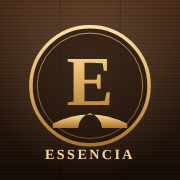
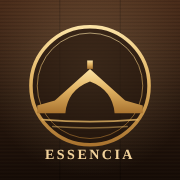
Icono sin la E: solo el puente dorado
Claude-Session: https://claude.ai/code/session_01XJRqYR3XyJSAmx2psQQsTk

Changed region(s): [[0.1944, 0.3056, 0.8056, 0.7222], [0.4722, 0.6111, 0.5278, 0.6389]]

diff --git a/sw.js b/sw.js
@@ -1,5 +1,5 @@
 // Esencia: guarda la app para que abra rápido. Siempre intenta la versión nueva primero.
-const CACHE = "esencia-v35";
+const CACHE = "esencia-v36";
 const BASE = ["./", "./camareros/", "./manifest.webmanifest", "./icons/icon-192.png", "./icons/icon-512.png", "fondo-dibujo.svg", "barrio.svg"];
 self.addEventListener("install", e => { e.waitUntil(caches.open(CACHE).then(c => c.addAll(BASE)).catch(()=>{})); self.skipWaiting(); });
 self.addEventListener("activate", e => { e.waitUntil(caches.keys().then(ks => Promise.all(ks.filter(k => k !== CACHE).map(k => caches.delete(k))))); self.clients.claim(); });
